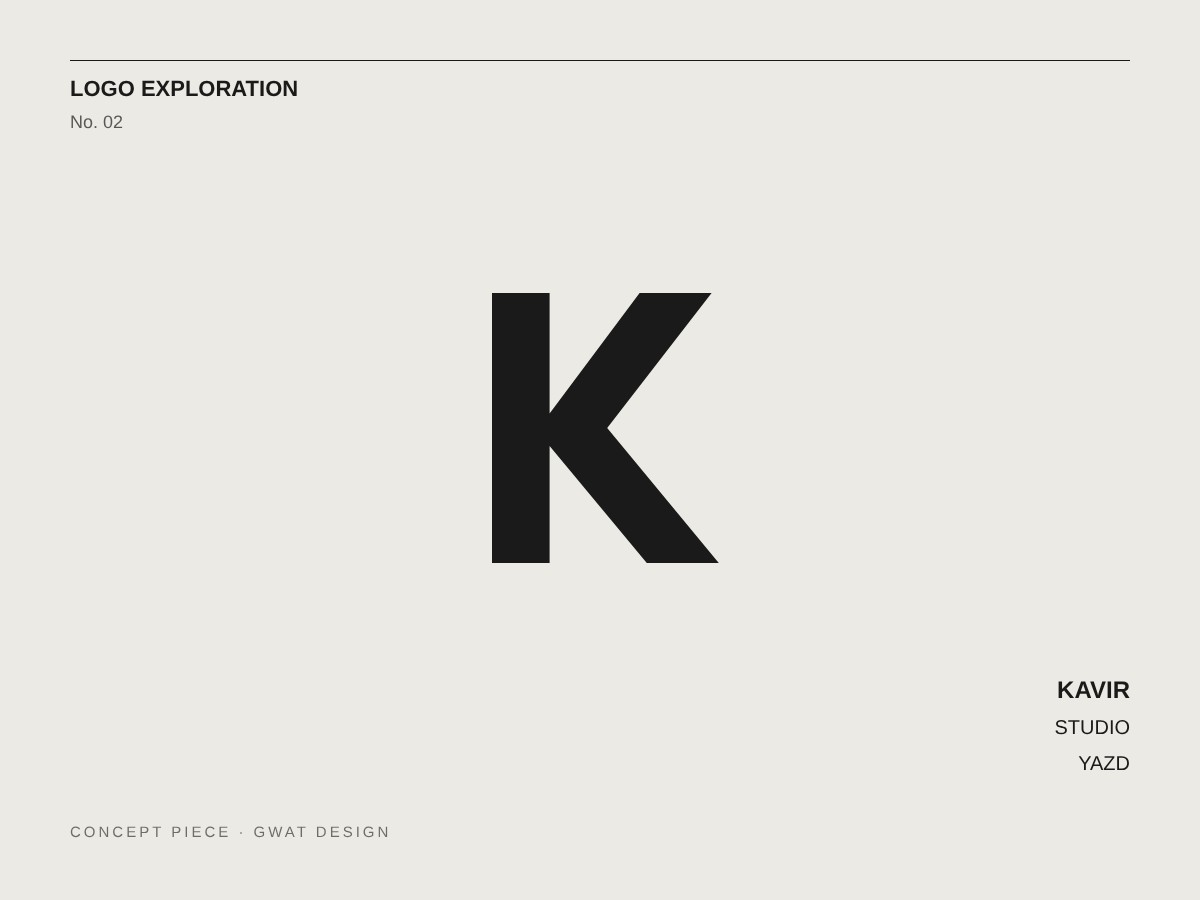
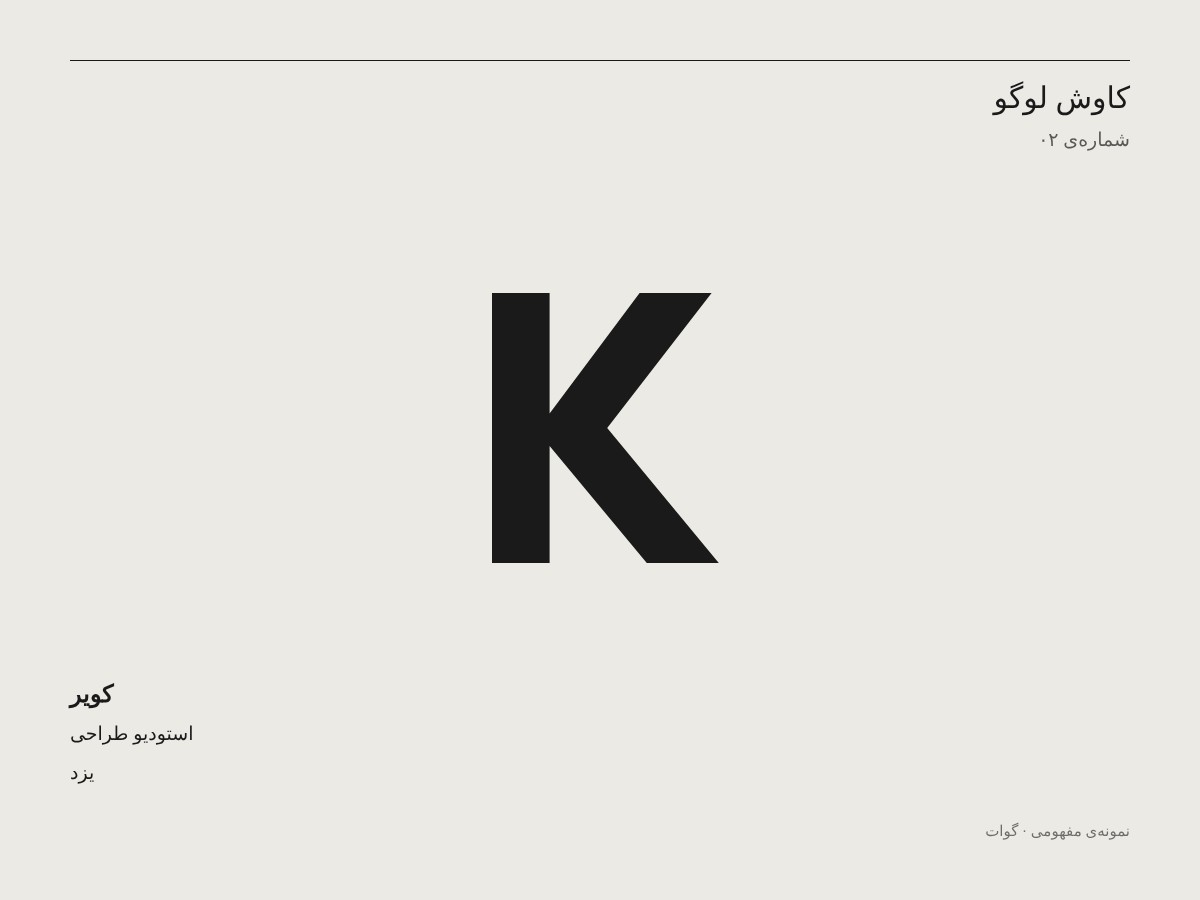
نصب آپدیت: gwat-update-7.zip

diff --git a/assets/i18n.js b/assets/i18n.js
@@ -79,6 +79,7 @@ var D={
 'پوستر برند گوات':'Gwat brand poster','استوری یاسین دبی':'Yasin Dubai story','پوستر شب یلدا':'Yalda Night poster','استوری معرفی طوطیا':'Tootia intro story','پوستر نوروز ۱۴۰۶':'Nowruz 1406 poster','کاروسل «۵ اشتباه رایج»':'“5 common mistakes” carousel','بستهبندی قهوهی کویر':'Kavir Coffee packaging','کاور آلبوم شبهای تهران':'“Tehran Nights” album cover',
 'هویت شخصی · ۴:۵':'Personal identity · 4:5','Yasin automedia · ۹:۱۶':'Yasin automedia · 9:16','مناسبتی · ۴:۵':'Occasion · 4:5','معرفی اپ · ۹:۱۶':'App intro · 9:16','اینستاگرام · ۴:۵':'Instagram · 4:5','لیبل و بستهبندی':'Label & packaging','کاور موسیقی · ۱:۱':'Music cover · 1:1',
 'نمایش بزرگ':'Enlarge',
+"کیف پول «آبان»":"Aban wallet app","اپ مالی · سه صفحه":"Finance app · three screens","لندینگ «هستهکار»":"Hasteh-kar landing page","صفحهی فرود · سهبعدی و پیکسلی":"Landing page · 3D & pixel","داشبورد رزرو «مهمان»":"Mehman booking dashboard","داشبورد وب · تقویم":"Web dashboard · calendar","داشبورد مالی «اندوخته»":"Andukhteh finance dashboard","داشبورد وب · مالی":"Web dashboard · finance","سایت «خانهی نور»":"Khaneh-ye Noor website","وبسایت · ماکاپ لپتاپ":"Website · laptop mockup","اپ ورزشی «گل زنده»":"Gol Zendeh sports app","اپ موبایل · کارتهای ورزشی":"Mobile app · sports cards","آزمایشگاه گیل":"Gil lab",
 "کیف پول «خوارزمی پی»":"Kharazmi Pay wallet triptych","داشبورد موبایل · سه صفحه":"Mobile dashboard · three screens","استودیو «تانین»":"Tanin studio landing","طراحی صفحهی فرود · سهبعدی":"Landing page · 3D shapes","داشبورد اقامتگاه «مهمان»":"Mehman stay dashboard","داشبورد وب · تقویم":"Web dashboard · calendar","داشبورد مالی «سپند»":"Sepand finance dashboard","داشبورد وب · نمودار و هدف":"Web dashboard · charts & goals","کلیسای «نور»":"Nur community church landing","وبسایت · فضای گرم":"Website · warm mood","اپ ورزشی «گل زنده»":"Gol Zende sports app tiles","اپلیکیشن موبایل · کارتهای ماژولار":"Mobile app · modular cards","کیف پول «آسمانه»":"Asemaneh wallet dark app","اپ موبایل · حالت تاریک":"Mobile app · dark mode","اپ مدیریت پروژه «گام»":"Gam project app onboarding","اپ موبایل · صفحهی اول":"Mobile app · onboarding","معماری ارسان":"معماری ارسان","نشان و لوگوتایپ · سبک فهرست":"Mark · grid style","استودیو کویر":"استودیو کویر","انرژی باد":"انرژی باد","رسانهی مهر":"رسانهی مهر","آزمایشگاه زرین":"آزمایشگاه زرین","شبکهی سند":"شبکهی سند","مرکز هنر":"مرکز هنر","آزمایشگاه گرگان":"آزمایشگاه گرگان","لوگو":"Logo",
 "داشبورد مالی «ساسان»":"Sasan finance dashboard","رابط کاربری · دسکتاپ":"UI · Desktop","داشبورد سلامت «نبض»":"Nabz health dashboard","اپ سفر «راهنما»":"Rahnama travel app","رابط کاربری · موبایل":"UI · Mobile","اپ تمرین «گام»":"Gam training app","لندینگ «بارنامه»":"Barnameh logistics landing","طراحی صفحهی فرود":"Landing page design","لندینگ «سفره»":"Sofreh food delivery landing","فروشگاه «نقشونگار»":"Naghsh-o-Negar shop grid","طراحی فروشگاه آنلاین":"Online shop design","صفحهی ورود «شیشه»":"Shisheh glass login","طراحی ورود · شیشهای":"Login design · glass","آریا کوهستان":"Arya Kuhestan","نشان و لوگوتایپ":"Mark & logotype","رستوران چنار":"Chenar restaurant","دورنا · آزمایشگاه داده":"Dorna data lab","نظر · معماری":"Nazar architecture","پارسا برق":"Parsa Power","ماهی · آبهای سبز":"Mahi water","راه · گردشگری":"Rah trails","گلبرگ · گلفروشی":"Golbarg florist","۵ ابزار هوش مصنوعی":"5 AI tools thumbnail","تامنیل · مفهومی":"Thumbnail · Concept","بودجهی ماه با ۳۰ میلیون":"Monthly budget thumbnail","سفر به کویر لوت":"Lut desert trip thumbnail","چرا این پروژه شکست خورد":"Why it failed thumbnail","آشپزی سهدقیقهای":"Three-minute cooking thumbnail","معرفی گیتار کلاسیک":"Classical guitar thumbnail","تست گوشی ارزان":"Budget phone test thumbnail","نوروز ۱۴۰۶":"Nowruz 1406 poster","پوستر · مناسبتی":"Poster · Occasion","شبهای کویر":"Desert nights poster","پوستر · کنسرت":"Poster · Concert","کتابخانهی باز":"Open library poster","پوستر · جشنواره":"Poster · Festival","هفتهی محیط زیست":"Environment week poster","پوستر · آگاهی":"Poster · Awareness","شبهای لیدو":"Lido nights album cover","کاور موسیقی · ۱:۱":"Music cover · 1:1","قصههای جاده":"Road stories podcast cover","کاور پادکست · ۱:۱":"Podcast cover · 1:1","چای «دمکرده»":"Dam-kardeh tea packaging","بستهبندی · لیبل":"Packaging · Label","UI/UX":"UI/UX","لوگو":"Logo","تامنیل":"Thumbnail","پوستر":"Poster","کاور":"Cover","بستهبندی":"Packaging","طرح مفهومی":"Concept piece",
 /* about */
